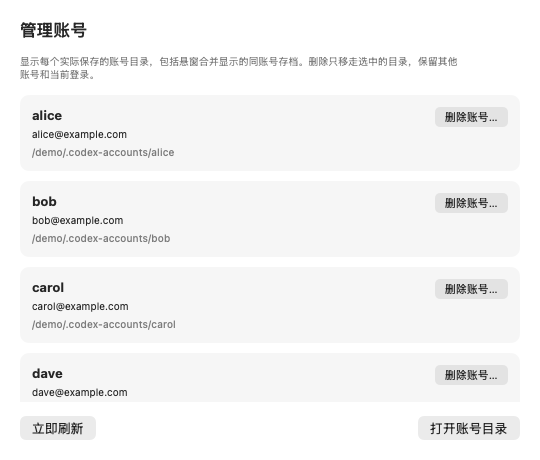
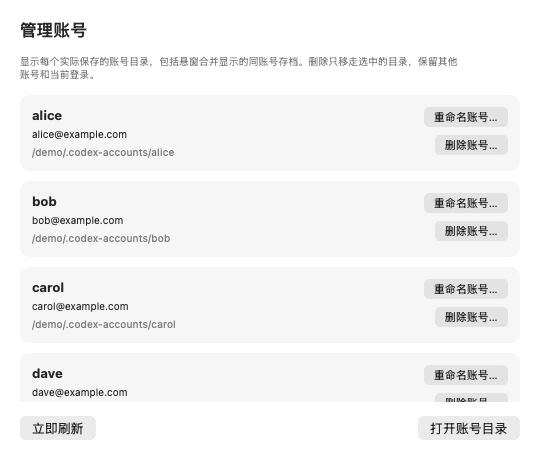
[docs/docs]: document account renaming and pin reproducible builds

diff --git a/README.md b/README.md
@@ -59,7 +59,7 @@ Codex Monitor solves all three: a read-only widget that shows every account's qu
 - Every account lives in its own `~/.codex-accounts/<name>/` directory, which doubles as an isolated `CODEX_HOME`. Switching copies one file; `codex-monitor run <name>` runs Codex with a different account in parallel without switching at all.
 - Refreshed tokens are synced back: when Codex rewrites `~/.codex/auth.json`, the stored copy of that account is updated, so your archive never holds a stale refresh token.
 
-**Web dashboard + CLI (`codex-monitor`)** — the same panel as a local web page for macOS / Linux / Windows, plus `add`, `relogin`, `import`, `save`, `list`, `status`, `use`, `run`, `env`, `export`, `sync`, `refresh`, `remove`, `serve`, `autostart`. Python 3.8+, standard library only; `codex-acct` is an alias.
+**Web dashboard + CLI (`codex-monitor`)** — the same panel as a local web page for macOS / Linux / Windows, plus `add`, `relogin`, `import`, `save`, `list`, `status`, `use`, `run`, `env`, `export`, `sync`, `refresh`, `rename`, `remove`, `serve`, `autostart`. Python 3.8+, standard library only; `codex-acct` is an alias.
 
 ## 3. 🚀 Quick Start
 
@@ -139,12 +139,12 @@ git rev-parse HEAD
 
 #### Reproduce a specific source version
 
-This pins commit `31948b8`, which includes native tag editing and individual account archive removal, in a new directory and builds/tests it without replacing the installed application:
+This pins commit `b310a5e`, which includes native tag editing, individual archive removal and account renaming, in a new directory and builds/tests it without replacing the installed application:
 
 ```bash
 git clone https://github.com/asimfish/codex_monitor.git codex_monitor_repro
 cd codex_monitor_repro
-git checkout --detach 31948b860476fc34a9a7acf68ec984c47a80efff
+git checkout --detach b310a5eb6522d1b169961fa8c271b68839bbed86
 bash tests/run_store_tests.sh
 bash tests/run_account_order_tests.sh
 bash tests/run_annotations_tests.sh
@@ -160,9 +160,11 @@ The native widget supports adding, editing and deleting tags. Expand the widget 
 
 **Clean up duplicate archives:** each account menu has **删除账号…** (Delete account). Open **管理账号** (Manage accounts) at the bottom of the widget or in settings to see every stored directory, including aliases merged in the widget. Names, emails and paths make the selected archive clear. After confirmation, only that directory moves to `~/.codex-accounts/_deleted/<unique-id>/<original-name>` (under `CODEX_ACCOUNTS_DIR` when overridden); other aliases and the current main login remain. The main-only login has no delete entry; use logout to sign out.
 
+**Rename an account:** choose **重命名账号…** in its native account menu or next to its name in **管理账号**. Enter a new name and confirm. This changes the archive's directory name; the email stays unchanged. Login, tags, unavailable status, history and native manual ordering are kept. Names allow 1–80 letters (including Chinese), numbers, spaces, dots, underscores or hyphens; avoid leading dots/underscores, a trailing dot and reserved names such as `main` or `CON`. Existing names, including empty failed-login directories, cannot be overwritten. A main-only login must first be saved as an account. Update any scripts that refer to the old account directory.
+
 <details><summary>Manage accounts window (fabricated accounts)</summary>
 
-<img src="docs/screenshots/native-account-manager.png" alt="Choose one account archive by name to delete" width="540">
+<img src="docs/screenshots/native-account-manager.png" alt="Choose one account archive by name to rename or delete" width="540">
 
 </details>
 
@@ -203,6 +205,8 @@ The native widget and web dashboard automatically sync saved tags when they use 
 </details>
 
 **Delete in the web dashboard:** account card `⋯` → **Delete account…** → confirm. Empty or signed-out profiles can also be removed; finish or cancel a pending login first. To undo a deletion, move the original account folder from `_deleted` back to the account-directory root with its original name, then refresh. Its saved tags return too. Deletion removes the selected archive from the list; logout keeps a row for re-login.
+
+**Rename in the web dashboard:** account card `⋯` → **Rename account…** → enter the new name. Login, tags and expansion state survive the rename and page reload. Finish or cancel a pending login first. When both interfaces share the same account store, the native widget picks up the new name automatically.
 
 The same things from the terminal:
 
@@ -257,7 +261,7 @@ For a headless server, run `codex-monitor serve --no-browser`, forward the dashb
 
 ### 3.3 Verification scope and downloads
 
-[Automated checks and native app builds](https://github.com/asimfish/codex_monitor/actions/workflows/verify.yml?query=branch%3Amain): choose a successful run containing `31948b8` or newer code. The checks cover:
+[Automated checks and native app builds](https://github.com/asimfish/codex_monitor/actions/workflows/verify.yml?query=branch%3Amain): choose a successful run containing `b310a5e` or newer code. The checks cover:
 
 | Check | Verified environment | Limits |
 |---|---|---|
@@ -276,7 +280,7 @@ For the compiled app, open the CI link above → the latest successful run → *
 | Active card | quota bars per window, reset time + countdown, per-model limits, data-source line (`live · from Codex session event hh:mm:ss` or `API · fetched hh:mm:ss`), reset credits, subscription expiry, token validity, last refresh |
 | Other accounts | one-line rows (click a row to expand, ˄ to collapse) or **Expand all / Collapse all**; each has **Switch** and a ⧉ menu: copy `auth.json` contents, copy path, reveal in Finder, export…, re-login… |
 | Account tags | Add/edit controls on every card; edit existing text, add new tags or delete with the trash button, then save to sync with the web |
-| Manage accounts | Open from the widget footer or settings to see all archive names, emails and paths; remove individual aliases with a local backup |
+| Manage accounts | Open from the widget footer or settings to see all archive names, emails and paths; rename archives or remove individual aliases with a local backup |
 | Strip | status dot, vertical quota bar, remaining %, short countdown; only the bottom arrow expands (the rest just drags) |
 
 Colours: green > 50 % remaining, orange 20–50 %, red ≤ 20 % or limit reached; yellow dot = showing cached data; grey = not loaded yet.
@@ -302,6 +306,7 @@ eval "$(codex-monitor env alt1)"    # same, for every codex call in this shell (
 codex-monitor export work ~/tmp/    # copy an auth.json out for another machine
 codex-monitor sync                  # pull a refreshed ~/.codex/auth.json back into its account directory
 codex-monitor refresh work          # (optional, confirmed) explicit token refresh
+codex-monitor rename work "Work account"  # rename this archive; keep login, tags and history
 ```
 
 Layout:
@@ -368,6 +373,7 @@ tests/test_python.py    parsing, tailer, views, OAuth (fake callback), auto-refr
 tests/test_cli.py       sandboxed end-to-end test of the CLI (temp CODEX_HOME, fake JWTs, no network)
 tests/test_dashboard.py sorting, persistent/validated tags, authenticated API and additional quota
 tests/test_removal.py   alias deletion/recovery, stale selection/path protection, pending-login denial, authenticated API and late refresh checks
+tests/test_rename.py    rename persistence, credentials/tags/history preservation, collisions, rollback, Unicode export and authenticated API
 tests/check_web_ui.mjs  real Chrome layout, light/dark, EN/ZH, tag editing/search (Node 24, no npm dependencies)
 tests/linux_smoke.sh    Linux installer, installed dashboard restart/tag persistence and autostart checks
 tests/run_store_tests.sh  Swift tests (macOS)
@@ -375,7 +381,7 @@ tests/run_annotations_tests.sh  native tag validation, Swift/Python interoperabi
 ```
 
 ```bash
-python3 tests/test_python.py && python3 tests/test_cli.py && python3 tests/test_dashboard.py && python3 tests/test_removal.py
+python3 tests/test_python.py && python3 tests/test_cli.py && python3 tests/test_dashboard.py && python3 tests/test_removal.py && python3 tests/test_rename.py
 node tests/check_web_ui.mjs                                        # Node 24 + Chrome; override with CHROME_BIN
 bash tests/run_account_order_tests.sh                                  # account ordering
 ./tests/run_store_tests.sh                                             # macOS, Swift side
